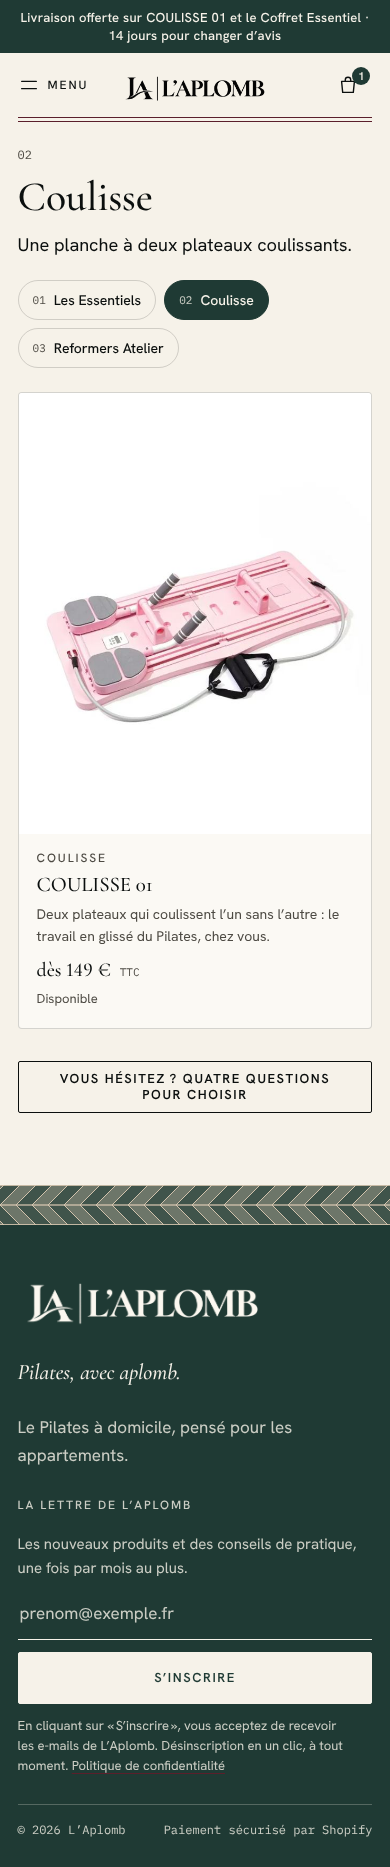
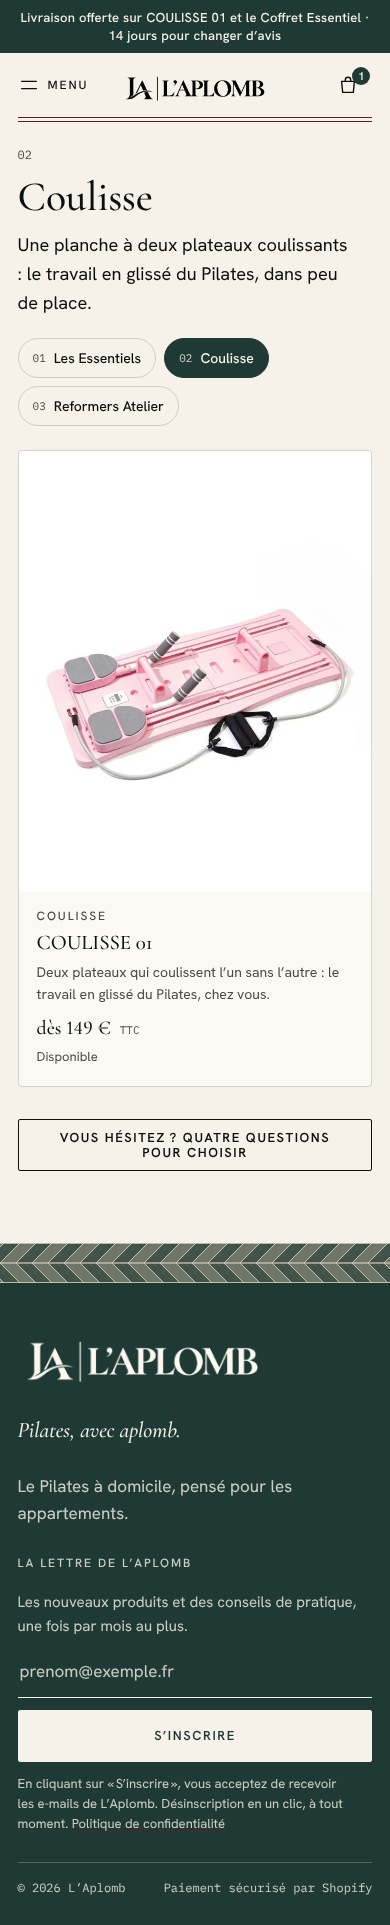
Menus : liens vers les pages et collections non publiées masqués (404 évitées)
Claude-Session: https://claude.ai/code/session_01JVxC767RbYfVA3orWDdFnz

diff --git a/tools/apercu/serveur.js b/tools/apercu/serveur.js
@@ -142,15 +142,15 @@ const COLLECTIONS = {
   'les-essentiels': collection('les-essentiels', 'Les Essentiels', CATALOGUE.filter((p) => p.type === 'Les Essentiels'), '01',
     '<p>Des kits d’accessoires pour pratiquer sur le tapis, sans appareil à ranger.</p>'),
   coulisse: collection('coulisse', 'Coulisse', CATALOGUE.filter((p) => p.type === 'Coulisse'), '02',
-    '<p>Une planche à deux plateaux coulissants.</p>'),
+    '<p>Une planche à deux plateaux coulissants : le travail en glissé du Pilates, dans peu de place.</p>'),
   'reformers-atelier': collection('reformers-atelier', 'Reformers Atelier', CATALOGUE.filter((p) => p.type === 'Reformers Atelier'), '03',
     '<p>De vrais reformers à chariot.</p>'),
   frontpage: collection('frontpage', 'Page d’accueil', ['coulisse-01', 'la-trousse', 'atelier-pliable'].map((h) => CATALOGUE.find((p) => p.handle === h)), '', ''),
 };
 CATALOGUE.forEach((p) => { p.collections = Object.values(COLLECTIONS).filter((c) => c.products.includes(p)); });
 const PAGES = {
-  'trouver-mon-equipement': { title: 'Trouver mon équipement', handle: 'trouver-mon-equipement', url: '/pages/trouver-mon-equipement' },
-  'livraison-et-retours': { title: 'Livraison et retours', handle: 'livraison-et-retours', url: '/pages/livraison-et-retours' },
+  'trouver-mon-equipement': { title: 'Trouver mon équipement', handle: 'trouver-mon-equipement', url: '/pages/trouver-mon-equipement', published_at: '2026-11-09T09:00:00Z' },
+  'livraison-et-retours': { title: 'Livraison et retours', handle: 'livraison-et-retours', url: '/pages/livraison-et-retours', published_at: '2026-11-09T09:00:00Z' },
 };
 
 /* ---------- Panier simulé ---------- */
